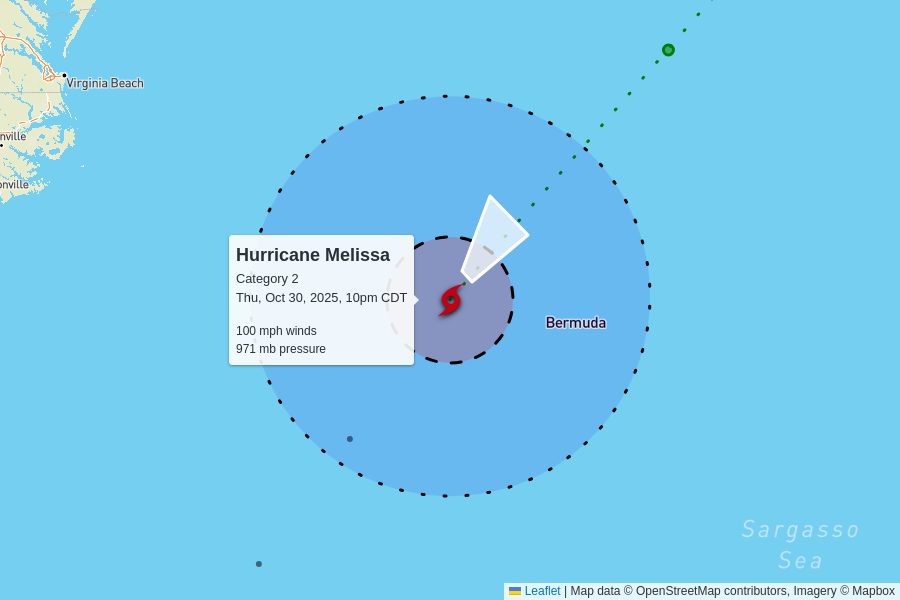
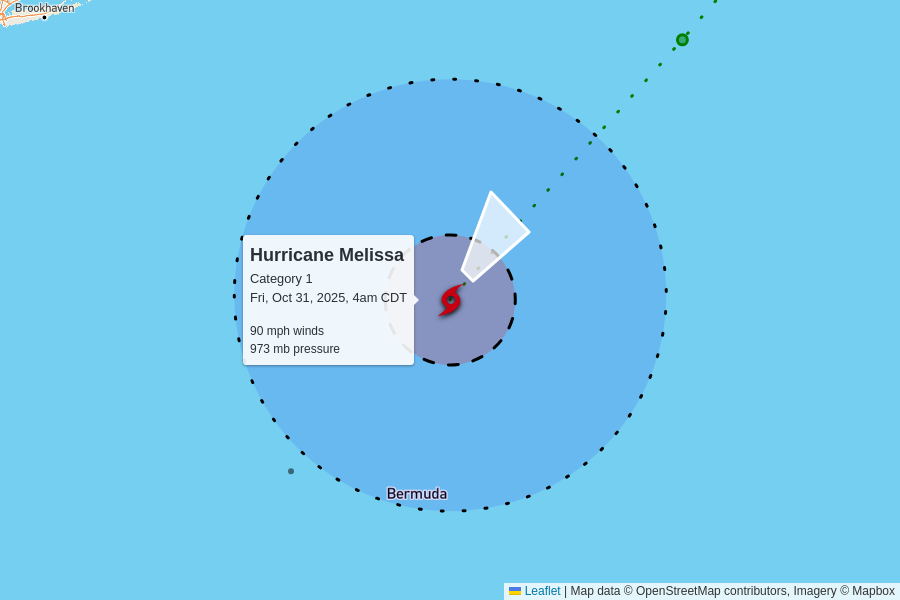
automatic update

diff --git a/docs/index.html b/docs/index.html
@@ -99,10 +99,10 @@
 
     <table>
       <tr>
-        <td colspan="6" class="storm category-2" >
+        <td colspan="6" class="storm category-1" >
           <h2>
-            Hurricane Melissa - Category 2
-            <p class="updated">last updated <span data-time>2025-10-31T03:00:00.000Z</span></p>
+            Hurricane Melissa - Category 1
+            <p class="updated">last updated <span data-time>2025-10-31T09:00:00.000Z</span></p>
           </h2>
         </td>
       </tr>
@@ -117,10 +117,10 @@
       </tr>
       <tr>
         <td class="spacer"></td>
-        <td>100 mph<br>-5 mph since last update</td>
-        <td>971 mb<br>+4 mb since last update</td>
+        <td>90 mph<br>-10 mph since last update</td>
+        <td>973 mb<br>+2 mb since last update</td>
         <td>
-          38 mph to the northeast
+          41 mph to the northeast
           <br/>
           <span style="display: inline-block; font-size: 1.5em; transform: rotate(40deg);">↑</span>
         </td>
